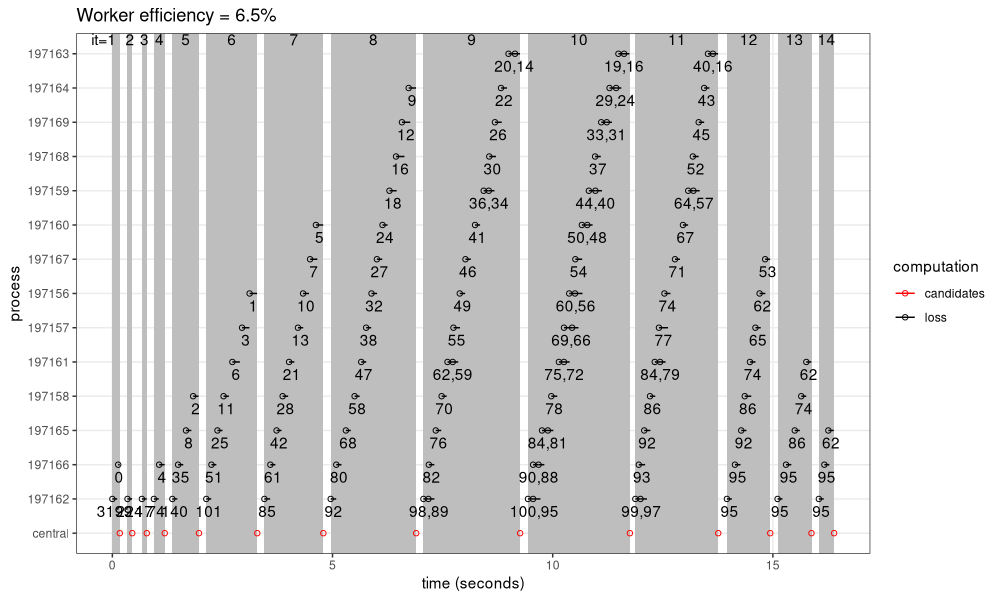
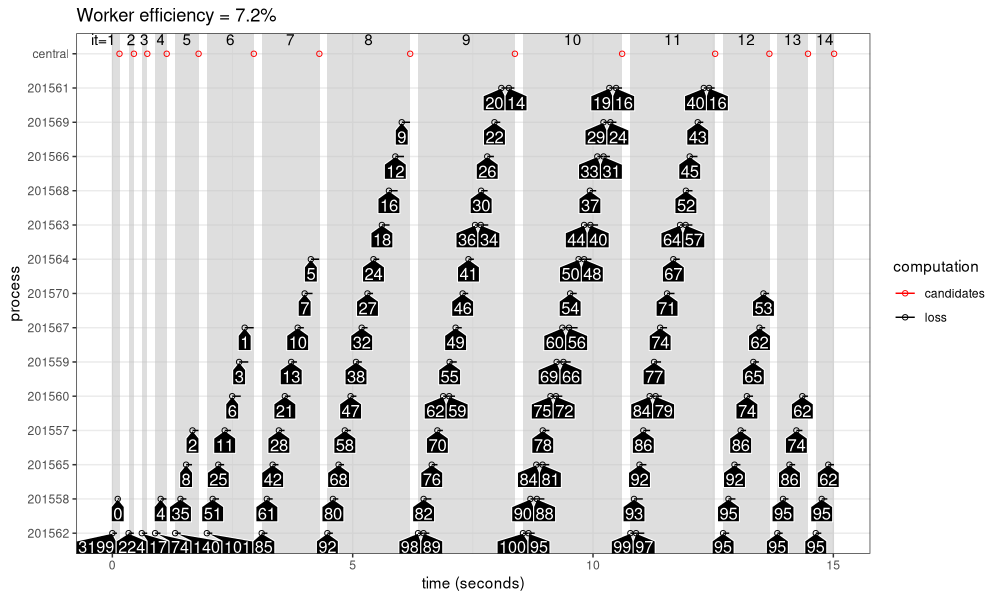
direct labels instead of geom_text

diff --git a/_posts/2025-05-15-rush-change-point.md b/_posts/2025-05-15-rush-change-point.md
@@ -485,39 +485,39 @@ central_launch <- function(target.min.peaks, target.max.peaks){
 ## $loss
 ##        penalty peaks  total.loss iteration process          start.time            end.time
 ##          <num> <int>       <num>     <int>  <fctr>              <POSc>              <POSc>
-##  1:     0.0000  3199 -130227.291         1  197162 2025-05-18 09:28:32 2025-05-18 09:28:32
-##  2:        Inf     0  375197.873         1  197166 2025-05-18 09:28:32 2025-05-18 09:28:32
-##  3:   157.9947   224  -62199.931         2  197162 2025-05-18 09:28:33 2025-05-18 09:28:33
-##  4:  1952.6688    17    2640.128         3  197162 2025-05-18 09:28:33 2025-05-18 09:28:33
-##  5: 21915.1615     4   89739.642         4  197162 2025-05-18 09:28:33 2025-05-18 09:28:33
-##  6:  6699.9627     8   36282.919         5  197162 2025-05-18 09:28:33 2025-05-18 09:28:34
-##  7:  3738.0879    11   19258.189         6  197162 2025-05-18 09:28:34 2025-05-18 09:28:34
-##  8: 13364.1808     6   55084.654         6  197166 2025-05-18 09:28:34 2025-05-18 09:28:34
-##  9:  2769.6768    13   13373.281         7  197162 2025-05-18 09:28:34 2025-05-18 09:28:34
-## 10:  5674.9101    10   24108.390         7  197166 2025-05-18 09:28:34 2025-05-18 09:28:34
-## 11:  9400.8673     7   43845.255         7  197165 2025-05-18 09:28:34 2025-05-18 09:28:34
-## 12: 17327.4943     5   70694.172         7  197158 2025-05-18 09:28:35 2025-05-18 09:28:35
-## 13:  2683.2884    16    5152.375         8  197162 2025-05-18 09:28:35 2025-05-18 09:28:35
-## 14:  2942.4538    12   16241.816         8  197166 2025-05-18 09:28:35 2025-05-18 09:28:35
-## 15:  6087.2647     9   30064.892         8  197165 2025-05-18 09:28:35 2025-05-18 09:28:35
-## 16:  2740.3022    14   10611.733         9  197162 2025-05-18 09:28:35 2025-05-18 09:28:36
-## 17:  2729.6793    16    5152.375        10  197162 2025-05-18 09:28:36 2025-05-18 09:28:36
-## 18:  2729.6793    16    5152.375        11  197162 2025-05-18 09:28:36 2025-05-18 09:28:36
+##  1:     0.0000  3199 -130227.291         1  201562 2025-05-18 10:28:25 2025-05-18 10:28:25
+##  2:        Inf     0  375197.873         1  201558 2025-05-18 10:28:25 2025-05-18 10:28:25
+##  3:   157.9947   224  -62199.931         2  201562 2025-05-18 10:28:26 2025-05-18 10:28:26
+##  4:  1952.6688    17    2640.128         3  201562 2025-05-18 10:28:26 2025-05-18 10:28:26
+##  5: 21915.1615     4   89739.642         4  201562 2025-05-18 10:28:26 2025-05-18 10:28:27
+##  6:  6699.9627     8   36282.919         5  201562 2025-05-18 10:28:27 2025-05-18 10:28:27
+##  7:  3738.0879    11   19258.189         6  201562 2025-05-18 10:28:27 2025-05-18 10:28:27
+##  8: 13364.1808     6   55084.654         6  201558 2025-05-18 10:28:27 2025-05-18 10:28:27
+##  9:  2769.6768    13   13373.281         7  201562 2025-05-18 10:28:28 2025-05-18 10:28:28
+## 10:  5674.9101    10   24108.390         7  201558 2025-05-18 10:28:28 2025-05-18 10:28:28
+## 11:  9400.8673     7   43845.255         7  201565 2025-05-18 10:28:28 2025-05-18 10:28:28
+## 12: 17327.4943     5   70694.172         7  201557 2025-05-18 10:28:28 2025-05-18 10:28:28
+## 13:  2683.2884    16    5152.375         8  201562 2025-05-18 10:28:28 2025-05-18 10:28:28
+## 14:  2942.4538    12   16241.816         8  201558 2025-05-18 10:28:28 2025-05-18 10:28:29
+## 15:  6087.2647     9   30064.892         8  201565 2025-05-18 10:28:29 2025-05-18 10:28:29
+## 16:  2740.3022    14   10611.733         9  201562 2025-05-18 10:28:29 2025-05-18 10:28:29
+## 17:  2729.6793    16    5152.375        10  201562 2025-05-18 10:28:29 2025-05-18 10:28:29
+## 18:  2729.6793    16    5152.375        11  201562 2025-05-18 10:28:29 2025-05-18 10:28:30
 ## 
 ## $candidates
 ##     iteration process          start.time            end.time
 ##         <int>  <fctr>              <POSc>              <POSc>
-##  1:         1 central 2025-05-18 09:28:32 2025-05-18 09:28:32
-##  2:         2 central 2025-05-18 09:28:33 2025-05-18 09:28:33
-##  3:         3 central 2025-05-18 09:28:33 2025-05-18 09:28:33
-##  4:         4 central 2025-05-18 09:28:33 2025-05-18 09:28:33
-##  5:         5 central 2025-05-18 09:28:34 2025-05-18 09:28:34
-##  6:         6 central 2025-05-18 09:28:34 2025-05-18 09:28:34
-##  7:         7 central 2025-05-18 09:28:35 2025-05-18 09:28:35
-##  8:         8 central 2025-05-18 09:28:35 2025-05-18 09:28:35
-##  9:         9 central 2025-05-18 09:28:36 2025-05-18 09:28:36
-## 10:        10 central 2025-05-18 09:28:36 2025-05-18 09:28:36
-## 11:        11 central 2025-05-18 09:28:36 2025-05-18 09:28:36
+##  1:         1 central 2025-05-18 10:28:25 2025-05-18 10:28:25
+##  2:         2 central 2025-05-18 10:28:26 2025-05-18 10:28:26
+##  3:         3 central 2025-05-18 10:28:26 2025-05-18 10:28:26
+##  4:         4 central 2025-05-18 10:28:27 2025-05-18 10:28:27
+##  5:         5 central 2025-05-18 10:28:27 2025-05-18 10:28:27
+##  6:         6 central 2025-05-18 10:28:27 2025-05-18 10:28:27
+##  7:         7 central 2025-05-18 10:28:28 2025-05-18 10:28:28
+##  8:         8 central 2025-05-18 10:28:29 2025-05-18 10:28:29
+##  9:         9 central 2025-05-18 10:28:29 2025-05-18 10:28:29
+## 10:        10 central 2025-05-18 10:28:29 2025-05-18 10:28:29
+## 11:        11 central 2025-05-18 10:28:30 2025-05-18 10:28:30
 ```
 
 The result is a list of two tables:
@@ -555,6 +555,7 @@ viz_workers <- function(L){
       xmin=min.seconds, xmax=max.seconds,
       ymin=-Inf, ymax=Inf),
       fill="grey",
+      alpha=0.5,
       data=it.dt)+
     geom_text(aes(
       x=(min.seconds+max.seconds)/2, Inf,
@@ -562,6 +563,12 @@ viz_workers <- function(L){
       label=paste0(ifelse(iteration==1, "it=", ""), iteration)),
       data=it.dt,
       vjust=1)+
+    directlabels::geom_dl(aes(
+      start.seconds, process,
+      label.group=paste(iteration, process),
+      label=peaks),
+      data=L$loss,
+      method=polygon.mine("bottom", offset.cm=0.2, custom.colors=list(box.color="white")))+
     geom_segment(aes(
       start.seconds, process,
       color=computation,
@@ -572,15 +579,104 @@ viz_workers <- function(L){
       color=computation),
       shape=1,
       data=seg.dt)+
-    geom_text(aes(
-      mid.seconds, process, label=label),
-      vjust=1.5,
-      data=text.dt)+
+    ## geom_text(aes(
+    ##   mid.seconds, process, label=label),
+    ##   vjust=1.5,
+    ##   data=text.dt)+
     scale_color_manual(values=c(
       loss="black",
       candidates="red"))+
     scale_y_discrete("process")+
     scale_x_continuous("time (seconds)")
+}
+polygon.mine <- function
+### Make a Positioning Method that places non-overlapping speech
+### polygons at the first or last points.
+(top.bottom.left.right,
+### Character string indicating what side of the plot to label.
+  offset.cm=0.1,
+### Offset from the polygon to the most extreme data point.
+  padding.cm=0.05,
+### Padding inside the polygon.
+  custom.colors=NULL
+### Positioning method applied just before draw.polygons, can set
+### box.color and text.color for custom colors.
+){
+  if(is.null(custom.colors)){
+    custom.colors <- directlabels::gapply.fun({
+      rgb.mat <- col2rgb(d[["colour"]])
+      d$text.color <- with(data.frame(t(rgb.mat)), {
+        gray <- 0.3*red + 0.59*green + 0.11*blue
+        ifelse(gray/255 < 0.5, "white", "black")
+      })
+      d
+    })
+  }
+  opposite.side <- c(
+    left="right",
+    right="left",
+    top="bottom",
+    bottom="top")[[top.bottom.left.right]]
+  direction <- if(
+    top.bottom.left.right %in% c("bottom", "left")
+  ) -1 else 1
+  min.or.max <- if(
+    top.bottom.left.right %in% c("top", "right")
+  ) max else min
+  if(top.bottom.left.right %in% c("left", "right")){
+    min.or.max.xy <- "x"
+    qp.target <- "y"
+    qp.max <- "top"
+    qp.min <- "bottom"
+    padding.h.factor <- 2
+    padding.w.factor <- 1
+    limits.fun <- ylimits
+    reduce.method <- "reduce.cex.lr"
+  }else{
+    min.or.max.xy <- "y"
+    qp.target <- "x"
+    qp.max <- "right"
+    qp.min <- "left"
+    padding.h.factor <- 1
+    padding.w.factor <- 2
+    limits.fun <- directlabels::xlimits
+    reduce.method <- "reduce.cex.tb"
+  }
+  list(
+    hjust=0.5, vjust=1,
+    function(d,...){
+      ## set the end of the speech polygon to the original data point.
+      for(xy in c("x", "y")){
+        extra.coord <- sprintf(# e.g. left.x
+          "%s.%s", opposite.side, xy)
+        d[[extra.coord]] <- d[[xy]]
+      }
+      ## offset positions but do NOT set the speech polygon position
+      ## to the min or max.
+      d[[min.or.max.xy]] <- d[[min.or.max.xy]] + offset.cm*direction
+      d
+    },
+    "calc.boxes",
+    reduce.method,
+    function(d, ...){
+      d$h <- d$h + padding.cm * padding.h.factor
+      d$w <- d$w + padding.cm * padding.w.factor
+      d
+    },
+    "calc.borders",
+    function(d,...){
+      do.call(rbind, lapply(split(d, d$y), function(d){
+        directlabels::apply.method(directlabels::qp.labels(
+          qp.target,
+          qp.min,
+          qp.max,
+          directlabels::make.tiebreaker(min.or.max.xy, qp.target),
+          limits.fun), d)
+      }))
+    },
+    "calc.borders",
+    custom.colors,
+    "draw.polygons")
 }
 viz_workers(loss_5_15)
 ```
@@ -591,7 +687,25 @@ The figure above shows how the computation proceeds over time (X axis)
 in the different parallel processes (Y axis). Iterations are shown in
 grey rectangles, with iteration numbers at the top of the plot. In
 each iteration, There are at most four parallel workers (black) at any
-given time.
+given time. We see that before starting a new iteration, all workers
+must complete, and wait for the central process to compute new
+candidates. The worker efficiency reported at the top of the plot is
+the amount of time taken computing models (black segments), divided by
+the max time that could be taken by that number of workers (if black
+line segments were from start to end of the plot for each
+worker). There are two sources of inefficiency:
+
+* The overhead for starting a new future job is about 0.2 seconds, and
+  this overhead could be reduced by using mirai package instead. But
+  for long running computations (big data or complex models), this
+  overhead is not the important bottleneck.
+* Because of the centralized method for computing new candidates, the
+  first process that finishes in an iteration must wait for the last
+  process, before it starts working again. This can be fixed by using
+  rush package instead (as we show in the next section).
+
+To see these patterns more clearly, below we run the central launch
+algorithm with a larger number of models:
 
 
 ``` r
@@ -602,35 +716,35 @@ given time.
 ## $loss
 ##        penalty peaks  total.loss iteration process          start.time            end.time
 ##          <num> <int>       <num>     <int>  <fctr>              <POSc>              <POSc>
-##   1:    0.0000  3199 -130227.291         1  197162 2025-05-18 09:28:37 2025-05-18 09:28:37
-##   2:       Inf     0  375197.873         1  197166 2025-05-18 09:28:37 2025-05-18 09:28:37
-##   3:  157.9947   224  -62199.931         2  197162 2025-05-18 09:28:37 2025-05-18 09:28:37
-##   4: 1952.6688    17    2640.128         3  197162 2025-05-18 09:28:37 2025-05-18 09:28:37
-##   5:  313.2370    74  -31865.715         4  197162 2025-05-18 09:28:37 2025-05-18 09:28:38
+##   1:    0.0000  3199 -130227.291         1  201562 2025-05-18 10:28:30 2025-05-18 10:28:30
+##   2:       Inf     0  375197.873         1  201558 2025-05-18 10:28:30 2025-05-18 10:28:30
+##   3:  157.9947   224  -62199.931         2  201562 2025-05-18 10:28:31 2025-05-18 10:28:31
+##   4: 1952.6688    17    2640.128         3  201562 2025-05-18 10:28:31 2025-05-18 10:28:31
+##   5:  313.2370    74  -31865.715         4  201562 2025-05-18 10:28:31 2025-05-18 10:28:31
 ##  ---                                                                                      
-## 112:  314.0074    74  -31865.715        13  197158 2025-05-18 09:28:52 2025-05-18 09:28:52
-## 113:  327.0344    62  -28011.480        13  197161 2025-05-18 09:28:52 2025-05-18 09:28:52
-## 114:  247.0699    95  -37499.236        14  197162 2025-05-18 09:28:53 2025-05-18 09:28:53
-## 115:  247.5600    95  -37499.236        14  197166 2025-05-18 09:28:53 2025-05-18 09:28:53
-## 116:  327.0344    62  -28011.480        14  197165 2025-05-18 09:28:53 2025-05-18 09:28:53
+## 112:  314.0074    74  -31865.715        13  201557 2025-05-18 10:28:44 2025-05-18 10:28:45
+## 113:  327.0344    62  -28011.480        13  201560 2025-05-18 10:28:45 2025-05-18 10:28:45
+## 114:  247.0699    95  -37499.236        14  201562 2025-05-18 10:28:45 2025-05-18 10:28:45
+## 115:  247.5600    95  -37499.236        14  201558 2025-05-18 10:28:45 2025-05-18 10:28:45
+## 116:  327.0344    62  -28011.480        14  201565 2025-05-18 10:28:45 2025-05-18 10:28:45
 ## 
 ## $candidates
 ##     iteration process          start.time            end.time
 ##         <int>  <fctr>              <POSc>              <POSc>
-##  1:         1 central 2025-05-18 09:28:37 2025-05-18 09:28:37
-##  2:         2 central 2025-05-18 09:28:37 2025-05-18 09:28:37
-##  3:         3 central 2025-05-18 09:28:37 2025-05-18 09:28:37
-##  4:         4 central 2025-05-18 09:28:38 2025-05-18 09:28:38
-##  5:         5 central 2025-05-18 09:28:39 2025-05-18 09:28:39
-##  6:         6 central 2025-05-18 09:28:40 2025-05-18 09:28:40
-##  7:         7 central 2025-05-18 09:28:41 2025-05-18 09:28:41
-##  8:         8 central 2025-05-18 09:28:43 2025-05-18 09:28:43
-##  9:         9 central 2025-05-18 09:28:46 2025-05-18 09:28:46
-## 10:        10 central 2025-05-18 09:28:48 2025-05-18 09:28:48
-## 11:        11 central 2025-05-18 09:28:50 2025-05-18 09:28:50
-## 12:        12 central 2025-05-18 09:28:51 2025-05-18 09:28:51
-## 13:        13 central 2025-05-18 09:28:52 2025-05-18 09:28:52
-## 14:        14 central 2025-05-18 09:28:53 2025-05-18 09:28:53
+##  1:         1 central 2025-05-18 10:28:30 2025-05-18 10:28:30
+##  2:         2 central 2025-05-18 10:28:31 2025-05-18 10:28:31
+##  3:         3 central 2025-05-18 10:28:31 2025-05-18 10:28:31
+##  4:         4 central 2025-05-18 10:28:31 2025-05-18 10:28:31
+##  5:         5 central 2025-05-18 10:28:32 2025-05-18 10:28:32
+##  6:         6 central 2025-05-18 10:28:33 2025-05-18 10:28:33
+##  7:         7 central 2025-05-18 10:28:35 2025-05-18 10:28:35
+##  8:         8 central 2025-05-18 10:28:36 2025-05-18 10:28:36
+##  9:         9 central 2025-05-18 10:28:39 2025-05-18 10:28:39
+## 10:        10 central 2025-05-18 10:28:41 2025-05-18 10:28:41
+## 11:        11 central 2025-05-18 10:28:43 2025-05-18 10:28:43
+## 12:        12 central 2025-05-18 10:28:44 2025-05-18 10:28:44
+## 13:        13 central 2025-05-18 10:28:45 2025-05-18 10:28:45
+## 14:        14 central 2025-05-18 10:28:45 2025-05-18 10:28:45
 ```
 
 ``` r
@@ -638,3 +752,13 @@ viz_workers(loss_1_100)
 ```
 
 ![plot of chunk central-1-100](/assets/img/2025-05-15-rush-change-point/central-1-100-1.png)
+
+The figure above shows more iterations and more processes. In some
+iterations (9-11), the number of candidates is greater than 14, which
+is the number of CPUs on my machine (and the max number of future
+workers). In those iterations, we see calculation of either 1 or 2
+models in each worker process.
+
+## De-centralized candidate computation, rush
+
+TODO
